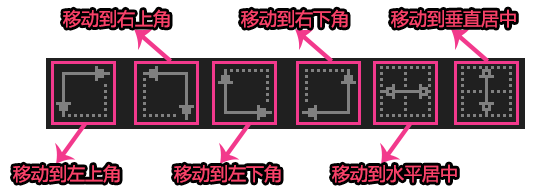
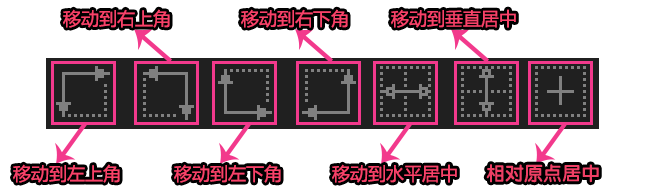
update

diff --git a/Chinese/LayaAir_AS3/IDE/Design_Mode/ToolBar/readme.md b/Chinese/LayaAir_AS3/IDE/Design_Mode/ToolBar/readme.md
@@ -1,16 +1,18 @@
 # 工具栏介绍
 
-         工具栏 位于编辑器主窗口的正上方，菜单栏下方，包含了八组控制按钮或信息，用来为特定面板提供编辑功能或方便我们实施工作流。
+> 本篇采用LayaAirIDE 1.7.3 bate 截图，如有不同，请下载最新的LayaAirIDE，以最新版本IDE为准。
+
+        工具栏位于编辑器主窗口的正上方，菜单栏下方，当打开项目时，可以看到八组控制按钮或信息，用来为特定面板提供编辑功能或方便我们实施工作流。
 
         ![blob.png](img/1.png)<br/>
-    （图1）
+    	（图1）
 
  
 
 ### 一、项目操作工具
 
-        ![图片1.png](img/2.png)<br/>
-    （图2）
+    ![图片1.png](img/2.png)<br/>
+    	（图2）
 
         新建目录： 在当前项目中新建一个目录文件夹，快捷键 （Ctrl + D）。
 
@@ -20,8 +22,8 @@
 
 ### 二、保存工具
 
-        ![图片1.png](img/3.png)<br/>
-    （图3）
+  ![图片1.png](img/3.png)<br/>
+    	（图3）
 
  
 
@@ -34,7 +36,7 @@
 ### 三、撤销工具
 
         ![图片1.png](img/4.png)<br/>
-    （图4）
+    	（图4）
 
  
 
@@ -47,7 +49,7 @@
 ### 四、刷新发布工具
 
         ![图片1.png](img/5.png)<br/>
-    （图5）
+    	（图5）
 
         刷新： 在用户导入新资源或对文件有更改后点击刷新，程序会自动加载新的资源或配置，快捷键（F5）。
 
@@ -58,7 +60,7 @@
 ### 五、视图工具
 
         ![图片1.png](img/6.png)<br/>
-    （图6）
+    	（图6）
 
         缩小视图： 点击缩小视图按钮后场景会自动进行缩放，但并不影响设计宽高控件大小，快捷键（Ctrl + +）。
 
@@ -70,8 +72,9 @@
 
 ### 六、对齐工具
 
-        ![图片1.png](img/7.png)<br/>
-    （图7）
+  ![图片1.png](img/7.png)<br/>
+
+    	（图7）
 
  
 
@@ -87,12 +90,16 @@
 
         底部对齐： 多个控件底部对齐方式将以最下方控件的底部坐标作为对齐点进行底部对齐。
 
+        水平平均间隔：多个控件以水平间隔距离自动计算后按平均距离进行水平对齐。
+
+        垂直平均间隔：多个控件以垂直间隔距离自动计算后按平均距离进行垂直对齐。
+
  
 
 ### 七、位移操作
 
-        ![图片1.png](img/8.png)<br/>
-    （图8）
+     ![图片1.png](img/8.png)<br/>
+    	（图8）
 
  
 
@@ -107,5 +114,7 @@
         移动到水平居中： 将选中的控件移动到场景视图的水平居中位置，控件的垂直位置不变。
 
         移动到垂直居中： 将选中的控件移动到场景视图的垂直居中位置，控件的水平位置不变。
+
+        相对原点居中： 将选中的控件移动到场景视图的原点（0,0）位置，并以原点位置进行垂直与水平位置居中。
 
  
